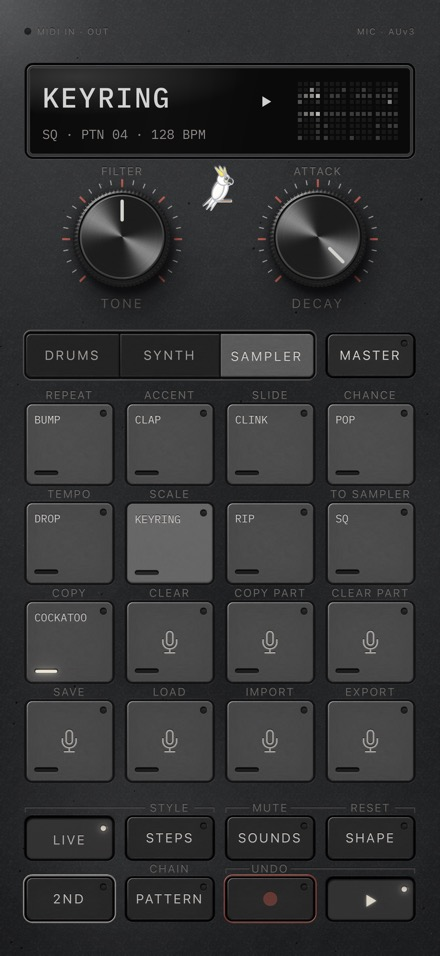
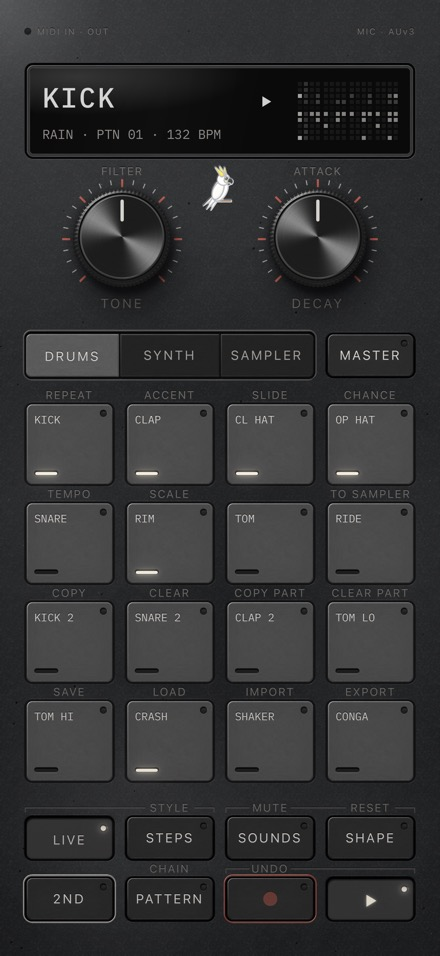
Tester-Handbuch: neue Bilder (erster Start, Rezept, Kette, Display, GENE LAB; Stand pocket-groovebox 70ea9e2)

diff --git a/handbook/index.html b/handbook/index.html
@@ -171,8 +171,6 @@ details.ref > .inner { padding: 0 0 1.4rem; }
 .card p { margin: .3rem 0 0; font-size: .93rem; }
 figure.pads { max-width: 560px; }
 figure.pads img { border-radius: 10px; }
-.lcdph { background: var(--lcd); color: var(--lcd-ink); aspect-ratio: 1090 / 300; display: flex; flex-direction: column; justify-content: center; padding: 0 7%; font: 500 1.6rem/1.2 var(--mono); letter-spacing: .08em; }
-.lcdph small { font-size: .8rem; opacity: .7; letter-spacing: .04em; }
 .duo { display: grid; grid-template-columns: repeat(auto-fit, minmax(260px, 1fr)); gap: 16px; }
 .duo > * { min-width: 0; }
 /* Teil-Köpfe */
@@ -189,6 +187,12 @@ h2.part .no { font-size: .8rem; letter-spacing: .14em; text-transform: uppercase
 .legend li { display: grid; grid-template-columns: 28px minmax(0, 1fr); gap: 10px; align-items: start; margin: 0; }
 .legend .n { width: 26px; height: 26px; border-radius: 50%; background: var(--ink); color: var(--bg); font: 600 14px/26px var(--mono); text-align: center; }
 @media (max-width: 640px) { .device { grid-template-columns: minmax(0, 1fr); } .shot { max-width: 260px; } }
+/* Display mit Marken (Kapitel 14) */
+figure.lcdshot { max-width: 560px; }
+.lcdmk { position: relative; }
+.lcdmk img { width: 100%; border-radius: 10px; background: var(--lcd); }
+.lcdmk .mk { width: 22px; height: 22px; font-size: 12px; line-height: 22px; }
+figure.lcdshot + .legend { margin-bottom: 1.2rem; }
 
 /* Landkarte */
 table.map th, table.map td { text-align: center; }
@@ -246,15 +250,14 @@ table.howto td:first-child { width: 36%; font-weight: 600; }
 <p class="lead">SQUAWK is a loop that plays in a circle. Three players are on it: drums, synth and sampler. They always play together.</p>
 <p>The switch says whose turn it is on the 16 pads. The keys below the pads say what the pads do. When <kbd class="rec">●</kbd> is red, what you play or tap stays on the loop.</p>
 <div class="device">
-  <!-- RESHOOT: Ganzes Gerät ohne Store-Text im Zustand des ersten Starts (DRUMS · LIVE, RAIN, Kit PUNCH, ▶ läuft). Platzhalter ist ein Rohbild vom 17. Nov. (SAMPLER, Track SQ, PTN 04); die Marken sitzen in Prozent und passen, solange das Bild das ganze Gerät im Hochformat 440 × 956 zeigt. -->
-  <figure class="shot"><img src="i/device.jpg" alt="SQUAWK, the whole device, with seven numbered marks">
-    <span class="mk" style="left:50%;top:14%">1</span>
-    <span class="mk" style="left:50%;top:26%">2</span>
-    <span class="mk" style="left:38.6%;top:37.2%">3</span>
-    <span class="mk" style="left:50%;top:61.5%">4</span>
+  <figure class="shot"><img src="i/device.jpg" alt="SQUAWK at first start: DRUMS · LIVE, RAIN playing, with seven numbered marks">
+    <span class="mk" style="left:50%;top:11%">1</span>
+    <span class="mk" style="left:50%;top:25%">2</span>
+    <span class="mk" style="left:38.6%;top:37.1%">3</span>
+    <span class="mk" style="left:50%;top:51.7%">4</span>
     <span class="mk" style="left:50%;top:87.7%">5</span>
     <span class="mk" style="left:72.7%;top:94%">6</span>
-    <span class="mk" style="left:15.5%;top:90.8%">7</span>
+    <span class="mk" style="left:15.5%;top:97.4%">7</span>
   </figure>
   <ol class="legend">
     <li><span class="n">1</span><div><b>Display.</b> Big: the sound the knobs change. Small, line 2: what is happening right now.</div></li>
@@ -309,7 +312,7 @@ table.howto td:first-child { width: 36%; font-weight: 600; }
 <li>Turn it further until it says CL HAT. Tap 3, 7, 11 and 15.</li>
 </ol>
 <p>A wrong step? Tap it again, and it is gone.</p>
-<!-- RESHOOT: Neues Bild für das Rezept: DRUMS · STEPS auf einem NEW-Pattern mit KICK 1/5/9/13, CLAP 5/13, CL HAT 3/7/11/15 (h/pads-drums-steps.jpg zeigt ein volles fremdes Pattern). -->
+<figure style="max-width:220px"><img src="i/rezept-steps.jpg" alt="DRUMS · STEPS on the new loop: KICK on 1, 5, 9 and 13, CL HAT on 3, 7, 11 and 15" loading="lazy"><figcaption>Your beat in STEPS, KICK picked. Its steps are bright. CL HAT on 3, 7, 11 and 15 is dim. “KICK +1” on 5 and 13: the clap plays there too.</figcaption></figure>
 </div></div>
 <div class="minute"><span class="t">3:00</span><div>
 <h3>Play something on top</h3>
@@ -534,8 +537,7 @@ table.howto td:first-child { width: 36%; font-weight: 600; }
 <!-- RESHOOT: Video B zeigt SHAPE · SPACE noch mit HALL · DELAY (vor 18. Nov. 2026). Das Drehbuch steht seit 6f89323 auf PLACE · CANYON; ob die Datei online schon neu ist, prüfen. --><figure style="max-width:220px"><video controls playsinline preload="metadata" src="i/video-b-iphone.mp4"></video><figcaption>Video B “Shape it”, 22 s: a free bank becomes a NOTES bank, then SHAPE with LFO and SPACE.</figcaption></figure>
 </div></div>
 
-<div class="weg" id="w-song"><figure><div class="lcdph" style="aspect-ratio:auto;padding:18px 12px;font-size:1.1rem;border-radius:10px"><span>CHAIN 3</span><small>TAP PATTERNS IN ORDER · ▶ = PLAY</small></div></figure><div>
-<!-- RESHOOT: Für diesen Weg gibt es kein Store-Bild. Vorschlag: PATTERN offen mit Kette (Pads 1 2 3, Statuszeile 1/3). -->
+<div class="weg" id="w-song"><figure><img src="i/kette.jpg" alt="PATTERN with a chain of loops 1, 2, 3 playing; line 2 shows 1/3"><figcaption>A chain of three loops plays. The pads show the order, line 2 shows <span class="lcd">1/3</span>.</figcaption></figure><div>
 <h3>12 · From loop to song</h3>
 <p>You get a song: loops played one after another, and a WAV file of it.</p>
 <ol>
@@ -592,13 +594,18 @@ table.howto td:first-child { width: 36%; font-weight: 600; }
 </ul>
 
 <h3>The display</h3>
-<!-- RESHOOT: Ein beschriftetes Bild nur des Displays (große Zeile, Zeile 2, Pixelfeld, ■/▶ mit ●) würde diesen Abschnitt ersetzen. -->
-<ul>
-  <li><b>Big line:</b> what the knobs set right now. Usually the sound: a drum, an instrument or a sample. In SHAPE it is the page, in MASTER the effect.</li>
-  <li><b>Line 2:</b> what is happening. A knob value, a held step, a hint, or the status line with track, loop and tempo, e.g. <span class="lcd">RAIN · PTN 01 · 132 BPM · PUNCH</span>.</li>
-  <li><b>Pixel field, right:</b> the loop of all three parts as dots. While you turn a knob, the value. In SHAPE, the curve of the page.</li>
-  <li><b>Top right:</b> ■ when stopped, ▶ when playing. A red ● in front while ● is on.</li>
-</ul>
+<figure class="lcdshot"><div class="lcdmk"><img src="h/display.jpg" alt="The display in SHAPE, page FILTER, recording while playing, with four numbered marks" loading="lazy">
+    <span class="mk" style="left:39%;top:38%">1</span>
+    <span class="mk" style="left:51.5%;top:72.5%">2</span>
+    <span class="mk" style="left:52.5%;top:41%">3</span>
+    <span class="mk" style="left:90%;top:26%">4</span>
+  </div><figcaption>SHAPE, page FILTER, while ● records and ▶ plays.</figcaption></figure>
+<ol class="legend">
+  <li><span class="n">1</span><div><b>Big line:</b> what the knobs set right now. Usually the sound: a drum, an instrument or a sample. In SHAPE it is the page (here FILTER), in MASTER the effect.</div></li>
+  <li><span class="n">2</span><div><b>Line 2:</b> what is happening. A knob value (here <span class="lcd">FILTER 080 · RESO 000</span>), a held step, a hint, or the status line with track, loop and tempo, e.g. <span class="lcd">RAIN · PTN 01 · 132 BPM · PUNCH</span>.</div></li>
+  <li><span class="n">3</span><div><b>■ or ▶, next to the big line:</b> ■ when stopped, ▶ when playing. A red ● in front while ● is on.</div></li>
+  <li><span class="n">4</span><div><b>Pixel field, right:</b> the loop of all three parts as dots. While you turn a knob, the value. In SHAPE, the curve of the page (here the filter).</div></li>
+</ol>
 
 <h3>Keys and what they open</h3>
 <ul>
@@ -784,7 +791,7 @@ table.howto td:first-child { width: 36%; font-weight: 600; }
 <h3>Source</h3><div class="cards"><article class="card"><img class="lcdimg" src="h/shape-01-model.jpg" alt="MODEL in the display" loading="lazy"><div class="cbody"><h4><span class="no">01</span>MODEL</h4><p class="lr"><span><b>L</b> MODEL; on SQUELCH: OSC</span><span><b>R</b> named per model (DETUNE, RATIO, CHORD, SPEAKER, BAND, MATERIAL, ENERGY …); on SQUELCH: none</span></p><p>Picks how the synth makes its sound: 22 models, from VA VCF to HAT, one per click. R sets the character of the model. Works on the synths whose SOUNDS knobs read MORPH · LEVEL. A changed model shows its name. On SQUELCH, L picks saw or square. Dark on SAX, GUITAR, E-BASS, drums and sampler.</p><p><b>YOYO</b> (after MODAL) is a string of masses. Its overtones bloom and come back by themselves, like a yo-yo. With YOYO, R is <kbd>ENERGY</kbd>: 16 clicks in four zones. STILL (1–3) is a steady tone. BREATH (4–8) lets one overtone come and go; 6 is the default (double-tap). BLOOM (9–12) brings many overtones, then back home. STORM (13–16) never comes back. VELO per step scales the energy, so louder steps breathe faster and deeper. TONE sets the starting shape, from dark to plucked. Pause on ENERGY and line 2 explains the zone.</p><p>Pixel field with YOYO: the very first time, a short opening with the red dot. After that, the curve of how the sound comes back. While a note sounds, the string moves live.</p><img class="lcdimg" src="h/shape-01-model-yoyo.jpg" alt="YOYO on SHAPE · MODEL in the display" loading="lazy"></div></article><article class="card"><img class="lcdimg" src="h/shape-02-tone.jpg" alt="TONE in the display" loading="lazy"><div class="cbody"><h4><span class="no">02</span>TONE</h4><p class="lr"><span><b>L</b> TONE (same value as the knob TONE)</span><span><b>R</b> as in SOUNDS: MORPH, SWELL or ENV; on synthesised kits CRACK</span></p><p>Sets the colour of the source. On synthesised kits (MODULAR, BLIP, SOFT, HAZE, IRON), CRACK sets the click of the kick, the rattle of snare and clap, and the noise of the hats. Dark on sample kits.</p></div></article><article class="card"><img class="lcdimg" src="h/shape-03-pitch.jpg" alt="PITCH in the display" loading="lazy"><div class="cbody"><h4><span class="no">03</span>PITCH</h4><p class="lr"><span><b>L</b> TUNE</span><span><b>R</b> BEND</span></p><p>Tunes the sound by ±24 semitones. R lets the pitch fall or rise after the hit.</p></div></article><article class="card"><img class="lcdimg" src="h/shape-04-legato.jpg" alt="LEGATO in the display" loading="lazy"><div class="cbody"><h4><span class="no">04</span>LEGATO</h4><p class="lr"><span><b>L</b> MODE</span><span><b>R</b> GLIDE</span></p><p>L picks MONO or LEGATO, R sets the glide time. Synth instruments only.</p></div></article></div>
 <h3>Colour</h3><div class="cards"><article class="card"><img class="lcdimg" src="h/shape-05-filter.jpg" alt="FILTER in the display" loading="lazy"><div class="cbody"><h4><span class="no">05</span>FILTER</h4><p class="lr"><span><b>L</b> FILTER (same value as FILTER after 2ND)</span><span><b>R</b> RESO</span></p><p>DJ filter: centre off, left low-pass, right high-pass. R sets the resonance.</p></div></article><article class="card"><img class="lcdimg" src="h/shape-06-env.jpg" alt="ENV in the display" loading="lazy"><div class="cbody"><h4><span class="no">06</span>ENV</h4><p class="lr"><span><b>L</b> AMOUNT</span><span><b>R</b> F-DECAY</span></p><p>Filter envelope with up to ±6 octaves. R sets how fast it decays.</p></div></article><article class="card"><img class="lcdimg" src="h/shape-07-drive.jpg" alt="DRIVE in the display" loading="lazy"><div class="cbody"><h4><span class="no">07</span>DRIVE</h4><p class="lr"><span><b>L</b> DRIVE (on drums the same value as DRIVE in SOUNDS)</span><span><b>R</b> LEVEL</span></p><p>Saturation and level of the sound.</p></div></article><article class="card"><img class="lcdimg" src="h/shape-08-chorus.jpg" alt="CHORUS in the display" loading="lazy"><div class="cbody"><h4><span class="no">08</span>CHORUS</h4><p class="lr"><span><b>L</b> CHORUS</span><span><b>R</b> SWIRL</span></p><p>L sets the chorus amount (stereo width), R its rate from 0.1 to 6 Hz. Far right it is almost vibrato. Synth instruments except SQUELCH.</p></div></article></div>
 <h3>Envelope</h3><div class="cards"><article class="card"><img class="lcdimg" src="h/shape-09-attack.jpg" alt="ATTACK in the display" loading="lazy"><div class="cbody"><h4><span class="no">09</span>ATTACK</h4><p class="lr"><span><b>L</b> ATTACK (same value as ATTACK after 2ND)</span><span><b>R</b> DECAY (same value as in LIVE)</span></p><p>Fade-in and decay.</p></div></article><article class="card"><img class="lcdimg" src="h/shape-10-sustain.jpg" alt="SUSTAIN in the display" loading="lazy"><div class="cbody"><h4><span class="no">10</span>SUSTAIN</h4><p class="lr"><span><b>L</b> SUSTAIN</span><span><b>R</b> RELEASE (same value as GATE, right)</span></p><p>How loud a held note stays. R sets how long it rings after release. With page 09 the whole envelope sits on two pages. Synth instruments except SQUELCH.</p></div></article><article class="card"><img class="lcdimg" src="h/shape-11-gate.jpg" alt="GATE in the display" loading="lazy"><div class="cbody"><h4><span class="no">11</span>GATE</h4><p class="lr"><span><b>L</b> GATE</span><span><b>R</b> RELEASE</span></p><p>Note length in the sequencer, and the ring-out after release.</p></div></article><article class="card"><img class="lcdimg" src="h/shape-12-space.jpg" alt="SPACE with PLACE CANYON in the display" loading="lazy"><div class="cbody"><h4><span class="no">12</span>SPACE</h4><p class="lr"><span><b>L</b> DISTANCE</span><span><b>R</b> PLACE</span></p><p>The sound stands at a place, and the place is built to the tempo. DISTANCE has 16 steps from 0.3 to 40 m; the default is 2.4 m. Nearer is louder, farther is quieter, darker and later. Line 2 shows e.g. <span class="lcd">DISTANCE 8 M</span>.</p><p>PLACE has 16 places: BOX, BOOTH, KITCHEN, CLUB, HALL, CHURCH, CAR PARK, TUNNEL, YARD, CANYON, FIELD, FOREST, LAKE, SNOW, NEXT ROOM, STREET. BOX is the default, with the usual reverb and delay. Where a place has walls, they answer on the tempo grid, e.g. <span class="lcd">PLACE HALL · 1/16</span>. Pause on PLACE and line 2 describes the place.</p><p>The pixel field shows the place from above, with you at the bottom. On each hit, every wall lights up when its reflection reaches you. Bass stays in the centre at every place. TO SAMPLER always renders in BOX.</p></div></article></div>
-<h3>Movement and extras</h3><div class="cards"><article class="card"><img class="lcdimg" src="h/shape-13-lfo.jpg" alt="LFO in the display" loading="lazy"><div class="cbody"><h4><span class="no">13</span>LFO</h4><p class="lr"><span><b>L</b> DEPTH</span><span><b>R</b> RATE</span></p><p>Depth and rate (0.1 to 20 Hz) of the LFO. It restarts with every hit.</p></div></article><article class="card"><img class="lcdimg" src="h/shape-14-lfo-to.jpg" alt="LFO TO in the display" loading="lazy"><div class="cbody"><h4><span class="no">14</span>LFO TO</h4><p class="lr"><span><b>L</b> TARGET</span><span><b>R</b> WAVE</span></p><p>L picks the LFO target (PITCH, FILTER, TIMBRE, LEVEL), R its waveform (SIN, TRI, SQR, SAW, S&amp;H).</p></div></article><article class="card"><img class="lcdimg" src="h/shape-15-name.jpg" alt="NAME in the display" loading="lazy"><div class="cbody"><h4><span class="no">15</span>NAME</h4><p class="lr"><span><b>L</b> LETTER 1</span><span><b>R</b> LETTER 2</span></p><p>Gives a sampler sound a two-letter name. It applies at once and shows in the pixel field. Sampler sounds only.</p></div></article><article class="card"><!-- RESHOOT: Display-Bild GENE LAB fehlt noch (Platzhalter). --><div class="lcdph"><span>GENE LAB</span><small>on sampler pads</small></div><div class="cbody"><h4><span class="no">16</span>GENE LAB</h4><p class="lr"><span><b>L</b> PARTNER</span><span><b>R</b> MUTATE</span></p><p>Crosses the sound with a partner over four genes: CLICK (the attack), BODY (the tones in it), NOISE (noise and air) and TAIL (the decay). PARTNER picks the second sound, similar ones first; on a pack sound, the pack comes first. MUTATE has 16 clicks, from your own sound through mixes to the partner itself. Each click puts the result on the pad and plays it. The knobs follow your finger smoothly; only the click you stop on is computed. Pause on PARTNER or MUTATE and line 2 explains it. When you leave the page, the result stays, with a name mixed from both parents. One undo step per visit. Works on sampler pads in KIT and NOTES banks. Not on SLICES, not on drums, and not in the AUv3.</p></div></article></div>
+<h3>Movement and extras</h3><div class="cards"><article class="card"><img class="lcdimg" src="h/shape-13-lfo.jpg" alt="LFO in the display" loading="lazy"><div class="cbody"><h4><span class="no">13</span>LFO</h4><p class="lr"><span><b>L</b> DEPTH</span><span><b>R</b> RATE</span></p><p>Depth and rate (0.1 to 20 Hz) of the LFO. It restarts with every hit.</p></div></article><article class="card"><img class="lcdimg" src="h/shape-14-lfo-to.jpg" alt="LFO TO in the display" loading="lazy"><div class="cbody"><h4><span class="no">14</span>LFO TO</h4><p class="lr"><span><b>L</b> TARGET</span><span><b>R</b> WAVE</span></p><p>L picks the LFO target (PITCH, FILTER, TIMBRE, LEVEL), R its waveform (SIN, TRI, SQR, SAW, S&amp;H).</p></div></article><article class="card"><img class="lcdimg" src="h/shape-15-name.jpg" alt="NAME in the display" loading="lazy"><div class="cbody"><h4><span class="no">15</span>NAME</h4><p class="lr"><span><b>L</b> LETTER 1</span><span><b>R</b> LETTER 2</span></p><p>Gives a sampler sound a two-letter name. It applies at once and shows in the pixel field. Sampler sounds only.</p></div></article><article class="card"><img class="lcdimg" src="h/shape-16-gene-lab.jpg" alt="GENE LAB in the display" loading="lazy"><div class="cbody"><h4><span class="no">16</span>GENE LAB</h4><p class="lr"><span><b>L</b> PARTNER</span><span><b>R</b> MUTATE</span></p><p>Crosses the sound with a partner over four genes: CLICK (the attack), BODY (the tones in it), NOISE (noise and air) and TAIL (the decay). PARTNER picks the second sound, similar ones first; on a pack sound, the pack comes first. MUTATE has 16 clicks, from your own sound through mixes to the partner itself. Each click puts the result on the pad and plays it. The knobs follow your finger smoothly; only the click you stop on is computed. Pause on PARTNER or MUTATE and line 2 explains it. When you leave the page, the result stays, with a name mixed from both parents. One undo step per visit. Works on sampler pads in KIT and NOTES banks. Not on SLICES, not on drums, and not in the AUv3.</p></div></article></div>
 
 <h2 id="master"><span class="no">17</span>MASTER: 16 effects</h2>
 <p><kbd>MASTER</kbd> puts effects on everything. In <kbd>LIVE</kbd> an effect works while its pad is held. The left knob sets AMOUNT, the right knob the character of the effect you played last. The big line shows the effect and the pixel field draws its shape. With <kbd>STEPS</kbd> and <kbd class="rec">●</kbd> you write effects onto steps: L picks the effect, R its amount.</p>
